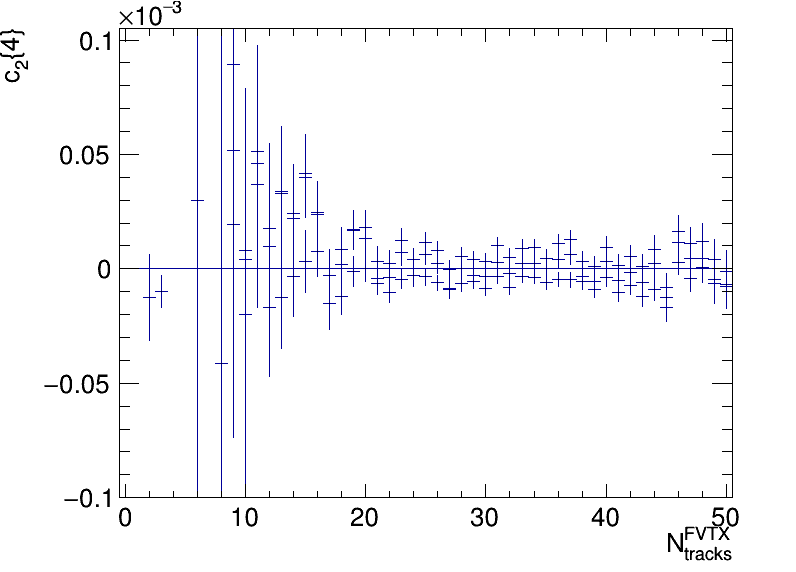
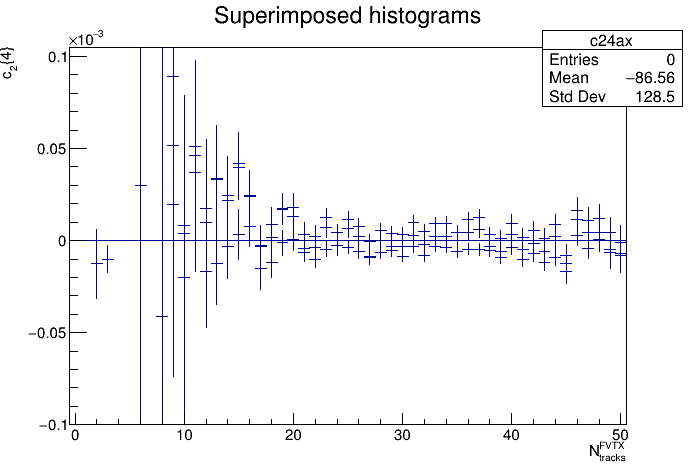
McNair Research files

diff --git a/tracks.C b/tracks.C
@@ -57,11 +57,10 @@ void tracks()
 
   //creation of single histogram
 
-<<<<<<< HEAD
+
   THStack *hs = new THStack("hs", "Superimposed histograms");
-=======
-  THStack *hs = new THStack("hs","");
->>>>>>> 1fac18893f7e6b0b02653651d73daf1ab32de5f0
+
+  //  THStack *hs = new THStack("hs","");
   hs -> Add(c24ax);
   hs -> Add(c24bx);
   hs -> Add(c24x);
@@ -72,6 +71,14 @@ void tracks()
   hs->SetMinimum(-1.0e-4);
   hs->GetXaxis()->SetRangeUser(0,50);
   c1.Print("hs.png");
+
+  //Rebinning of historgrams: seperate rebinning of <4> and <2> histograms
+
+  int rebin = 2;
+  c22x -> Rebin(rebin);
+  c22x -> Scale(1.0/rebin);
+  
+  
 
   return;
 }
